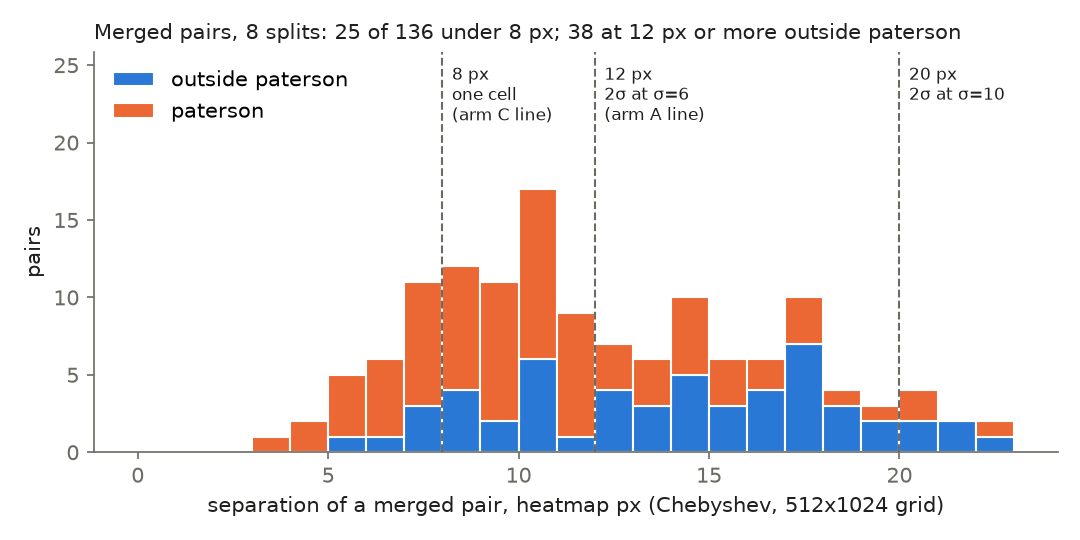
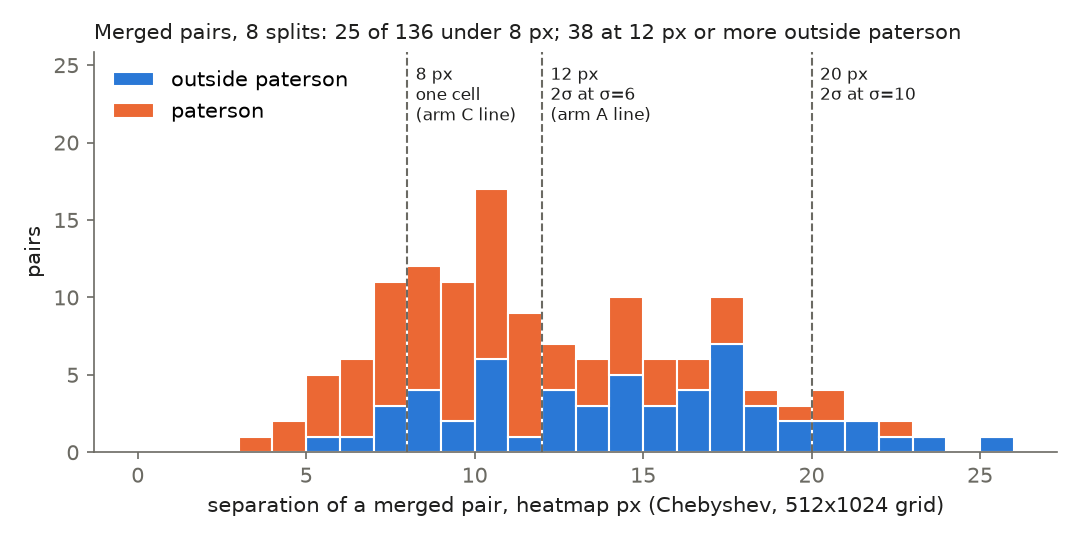
#263 nits: the 0a figure draws all 136 pairs; pin the exact-8-px boundary
The histogram's bins stopped at 23 px, so the pairs at 23.58 and 25.44 px
were not drawn while the title counts 136. Bins now run to the widest
pair. Regenerated with `horizon_band_263.py figures`:
merged_separation.png's bytes changed; band_vs_threshold.png came out
byte-identical and is not in this commit.

A new test pins that a pair exactly 8.0 px apart is not "under 8 px"
(the real data has pairs at 7.9861 and 8.0319, so `<` vs `<=` was
untested).

diff --git a/tests/test_merged_separation_263.py b/tests/test_merged_separation_263.py
@@ -34,6 +34,13 @@ def test_arm_c_needs_more_than_one_third_under_8px():
     assert t["chebyshev"]["under_8px"] == 2 and t["euclidean"]["under_8px"] == 1
 
 
+def test_a_pair_exactly_8px_apart_is_not_under_8px():
+    # the real data comes within 0.014 px of the line (7.9861 and 8.0319), so pin it
+    t = ms.triggers(_pairs([("a", 8.0, 8.0), ("a", 7.999, 8.0), ("a", 10.0, 10.0)]))
+    assert t["chebyshev"]["under_8px"] == 1 and t["euclidean"]["under_8px"] == 0
+    assert t["chebyshev"]["between_8_and_12px"] == 2           # 8.0 and 10.0
+
+
 def test_arm_a_counts_12px_or_more_outside_paterson_only():
     spec = [("bend", 12.0, 12.0)] * 29 + [("paterson", 20.0, 20.0)] * 10 + [("bend", 11.99, 13)]
     t = ms.triggers(_pairs(spec))

diff --git a/scripts/analysis/horizon_band_263.py b/scripts/analysis/horizon_band_263.py
@@ -894,8 +894,9 @@ def cmd_figures(args):
         mp = json.load(f)
     pat = [p["chebyshev"] for p in mp["pairs"] if p["city"] == "paterson"]
     fig, ax = plt.subplots(figsize=(7.2, 3.6))
-    bins = np.arange(0, 24, 1.0)
     other = [p["chebyshev"] for p in mp["pairs"] if p["city"] != "paterson"]
+    # 1-px bins out to the widest pair, so every pair the title counts is drawn
+    bins = np.arange(0, math.floor(max(other + pat)) + 2, 1.0)
     ax.hist([other, pat],
             bins=bins, stacked=True, color=[BLUE, ORANGE], edgecolor="white", linewidth=1,
             label=["outside paterson", "paterson"])
